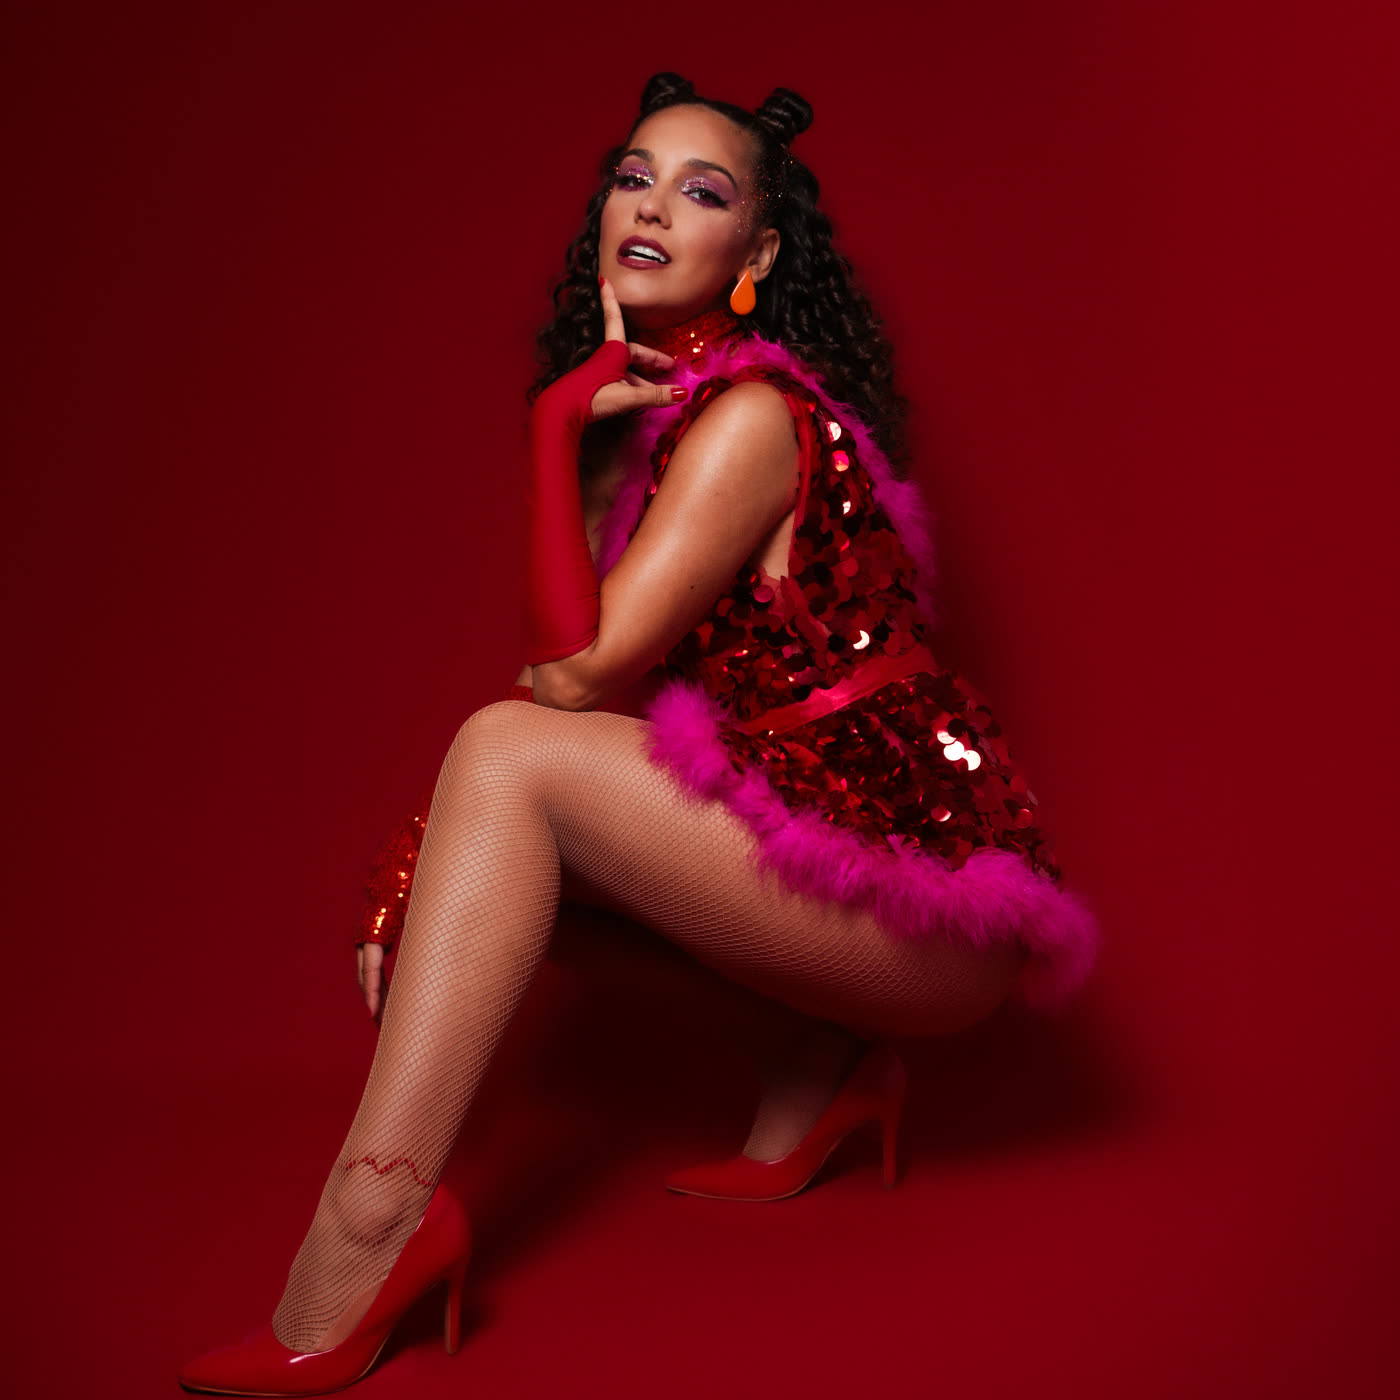
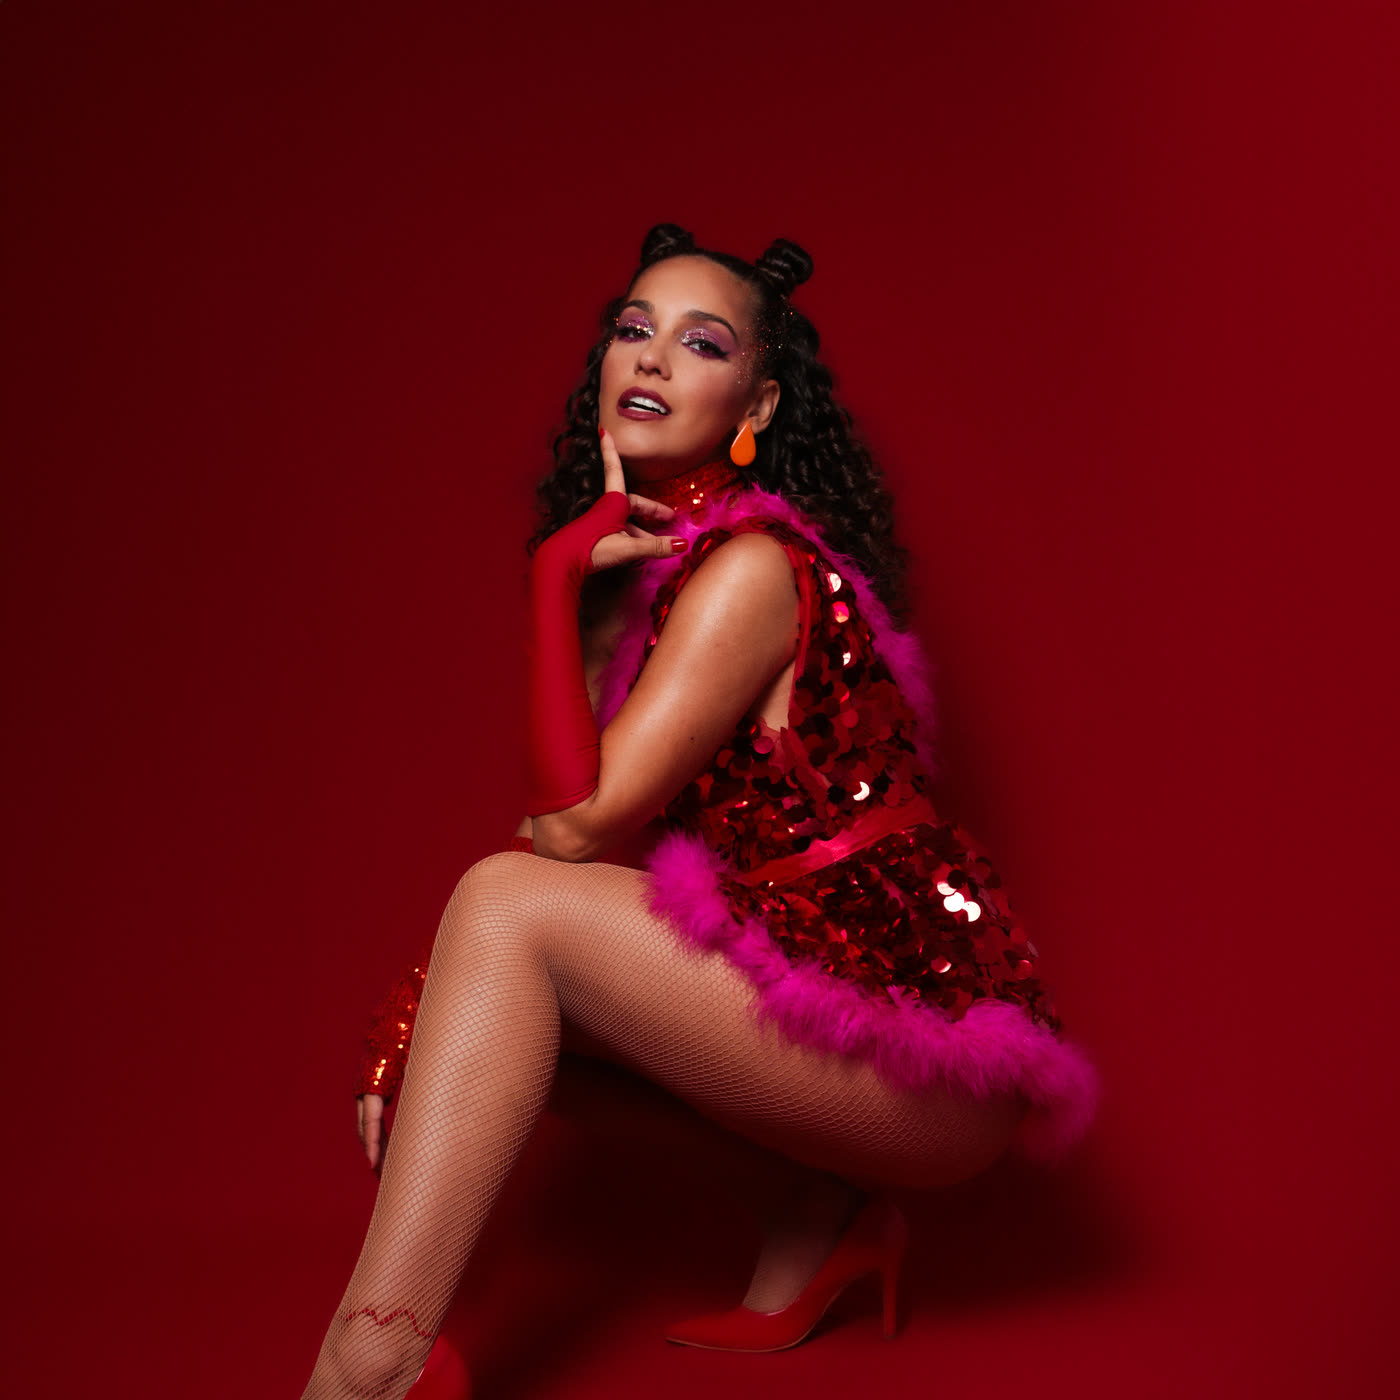
A cabeca dela inteira no hero do Ato I

Changed region(s): [[0.1229, 0.0307, 0.8293, 1.0]]

diff --git a/em-cena.html b/em-cena.html
@@ -21,15 +21,15 @@
 <link rel="preconnect" href="https://fonts.gstatic.com" crossorigin>
 <link rel="stylesheet" href="https://fonts.googleapis.com/css2?family=Archivo:wght@300..600&family=Fraunces:opsz,wght@9..144,300..800&family=Young+Serif&display=swap">
 
-<link rel="stylesheet" href="assets/css/base.css?v=202609282022">
-<link rel="stylesheet" href="assets/css/header.css?v=202609282022">
-<link rel="stylesheet" href="assets/css/rodape.css?v=202609282022">
-<link rel="stylesheet" href="assets/css/ato.css?v=202609282022">
-<link rel="stylesheet" href="assets/css/em-cena.css?v=202609282022">
-<link rel="stylesheet" href="assets/css/vitrine.css?v=202609282022">
-<link rel="stylesheet" href="assets/css/galeria.css?v=202609282022">
-<link rel="stylesheet" href="assets/css/publicidade.css?v=202609282022">
-<link rel="stylesheet" href="assets/css/player.css?v=202609282022">
+<link rel="stylesheet" href="assets/css/base.css?v=202609282030">
+<link rel="stylesheet" href="assets/css/header.css?v=202609282030">
+<link rel="stylesheet" href="assets/css/rodape.css?v=202609282030">
+<link rel="stylesheet" href="assets/css/ato.css?v=202609282030">
+<link rel="stylesheet" href="assets/css/em-cena.css?v=202609282030">
+<link rel="stylesheet" href="assets/css/vitrine.css?v=202609282030">
+<link rel="stylesheet" href="assets/css/galeria.css?v=202609282030">
+<link rel="stylesheet" href="assets/css/publicidade.css?v=202609282030">
+<link rel="stylesheet" href="assets/css/player.css?v=202609282030">
 
 <script>document.documentElement.classList.add('js');</script>
 </head>
@@ -105,7 +105,7 @@
   <section class="abertura" style="--foto-borda: 44%; --foto-pos: 52% 38%; --foto-fade: 24%; --foto-brilho: 1">
 
     <figure class="abertura__figura" aria-hidden="true">
-      <img class="abertura__foto" src="assets/img/abertura-em-cena.jpg?v=202609282022" alt="" width="1600" height="1172" decoding="async">
+      <img class="abertura__foto" src="assets/img/abertura-em-cena.jpg?v=202609282030" alt="" width="1600" height="1172" decoding="async">
       <span class="abertura__veu"></span>
     </figure>
 
@@ -769,12 +769,12 @@
   </div>
 </div>
 
-<script src="assets/js/pronto.js?v=202609282022" defer></script>
-<script src="assets/js/nav.js?v=202609282022" defer></script>
-<script src="assets/js/reveal.js?v=202609282022" defer></script>
-<script src="assets/js/vitrine.js?v=202609282022" defer></script>
-<script src="assets/js/galeria.js?v=202609282022" defer></script>
-<script src="assets/js/player.js?v=202609282022" defer></script>
+<script src="assets/js/pronto.js?v=202609282030" defer></script>
+<script src="assets/js/nav.js?v=202609282030" defer></script>
+<script src="assets/js/reveal.js?v=202609282030" defer></script>
+<script src="assets/js/vitrine.js?v=202609282030" defer></script>
+<script src="assets/js/galeria.js?v=202609282030" defer></script>
+<script src="assets/js/player.js?v=202609282030" defer></script>
 
 </body>
 </html>

diff --git a/musica.html b/musica.html
@@ -22,12 +22,12 @@
 <link rel="preconnect" href="https://i.ytimg.com">
 <link rel="stylesheet" href="https://fonts.googleapis.com/css2?family=Archivo:wght@300..600&family=Fraunces:opsz,wght@9..144,300..800&family=Young+Serif&display=swap">
 
-<link rel="stylesheet" href="assets/css/base.css?v=202609282022">
-<link rel="stylesheet" href="assets/css/header.css?v=202609282022">
-<link rel="stylesheet" href="assets/css/rodape.css?v=202609282022">
-<link rel="stylesheet" href="assets/css/ato.css?v=202609282022">
-<link rel="stylesheet" href="assets/css/musica.css?v=202609282022">
-<link rel="stylesheet" href="assets/css/player.css?v=202609282022">
+<link rel="stylesheet" href="assets/css/base.css?v=202609282030">
+<link rel="stylesheet" href="assets/css/header.css?v=202609282030">
+<link rel="stylesheet" href="assets/css/rodape.css?v=202609282030">
+<link rel="stylesheet" href="assets/css/ato.css?v=202609282030">
+<link rel="stylesheet" href="assets/css/musica.css?v=202609282030">
+<link rel="stylesheet" href="assets/css/player.css?v=202609282030">
 
 <script>document.documentElement.classList.add('js');</script>
 </head>
@@ -100,10 +100,10 @@
   <!-- ============================================================
        ABERTURA DO ATO
        ============================================================ -->
-  <section class="abertura" style="--foto-borda: 42%; --foto-pos: 50% 34%; --foto-fade: 26%; --foto-brilho: .98">
+  <section class="abertura" style="--foto-borda: 42%; --foto-pos: 50% 14%; --foto-fade: 26%; --foto-brilho: .98">
 
     <figure class="abertura__figura" aria-hidden="true">
-      <img class="abertura__foto" src="assets/img/abertura-musica.jpg" alt="" width="1400" height="1400" decoding="async">
+      <img class="abertura__foto" src="assets/img/abertura-musica.jpg?v=202609282030" alt="" width="1400" height="1400" decoding="async">
       <span class="abertura__veu"></span>
     </figure>
 
@@ -265,10 +265,10 @@
   <div class="player__quadro"></div>
 </div>
 
-<script src="assets/js/pronto.js?v=202609282022" defer></script>
-<script src="assets/js/nav.js?v=202609282022" defer></script>
-<script src="assets/js/reveal.js?v=202609282022" defer></script>
-<script src="assets/js/player.js?v=202609282022" defer></script>
+<script src="assets/js/pronto.js?v=202609282030" defer></script>
+<script src="assets/js/nav.js?v=202609282030" defer></script>
+<script src="assets/js/reveal.js?v=202609282030" defer></script>
+<script src="assets/js/player.js?v=202609282030" defer></script>
 
 </body>
 </html>

diff --git a/index.html b/index.html
@@ -22,11 +22,11 @@
 <link rel="preload" as="image" href="assets/img/bruna-hero.jpg" fetchpriority="high">
 <link rel="stylesheet" href="https://fonts.googleapis.com/css2?family=Archivo:wght@300..600&family=Fraunces:opsz,wght@9..144,300..800&family=Young+Serif&display=swap">
 
-<link rel="stylesheet" href="assets/css/base.css?v=202609282022">
-<link rel="stylesheet" href="assets/css/header.css?v=202609282022">
-<link rel="stylesheet" href="assets/css/rodape.css?v=202609282022">
-<link rel="stylesheet" href="assets/css/hero.css?v=202609282022">
-<link rel="stylesheet" href="assets/css/atos.css?v=202609282022">
+<link rel="stylesheet" href="assets/css/base.css?v=202609282030">
+<link rel="stylesheet" href="assets/css/header.css?v=202609282030">
+<link rel="stylesheet" href="assets/css/rodape.css?v=202609282030">
+<link rel="stylesheet" href="assets/css/hero.css?v=202609282030">
+<link rel="stylesheet" href="assets/css/atos.css?v=202609282030">
 
 <script>document.documentElement.classList.add('js');</script>
 </head>
@@ -185,7 +185,7 @@
       <li class="ato-panel" data-reveal style="--i:2">
         <a class="ato-panel__link" href="ao-vivo.html">
           <span class="ato-panel__figure">
-            <img src="assets/img/ato-ao-vivo.jpg?v=202609282022" alt="" width="900" height="1260" decoding="async">
+            <img src="assets/img/ato-ao-vivo.jpg?v=202609282030" alt="" width="900" height="1260" decoding="async">
           </span>
           <span class="ato-panel__veil" aria-hidden="true"></span>
           <span class="ato-panel__caption">
@@ -235,10 +235,10 @@
 
 </footer>
 
-<script src="assets/js/pronto.js?v=202609282022" defer></script>
-<script src="assets/js/hero.js?v=202609282022" defer></script>
-<script src="assets/js/nav.js?v=202609282022" defer></script>
-<script src="assets/js/reveal.js?v=202609282022" defer></script>
+<script src="assets/js/pronto.js?v=202609282030" defer></script>
+<script src="assets/js/hero.js?v=202609282030" defer></script>
+<script src="assets/js/nav.js?v=202609282030" defer></script>
+<script src="assets/js/reveal.js?v=202609282030" defer></script>
 
 </body>
 </html>

diff --git a/ao-vivo.html b/ao-vivo.html
@@ -21,11 +21,11 @@
 <link rel="preconnect" href="https://fonts.gstatic.com" crossorigin>
 <link rel="stylesheet" href="https://fonts.googleapis.com/css2?family=Archivo:wght@300..600&family=Fraunces:opsz,wght@9..144,300..800&family=Young+Serif&display=swap">
 
-<link rel="stylesheet" href="assets/css/base.css?v=202609282022">
-<link rel="stylesheet" href="assets/css/header.css?v=202609282022">
-<link rel="stylesheet" href="assets/css/rodape.css?v=202609282022">
-<link rel="stylesheet" href="assets/css/ato.css?v=202609282022">
-<link rel="stylesheet" href="assets/css/showreel.css?v=202609282022">
+<link rel="stylesheet" href="assets/css/base.css?v=202609282030">
+<link rel="stylesheet" href="assets/css/header.css?v=202609282030">
+<link rel="stylesheet" href="assets/css/rodape.css?v=202609282030">
+<link rel="stylesheet" href="assets/css/ato.css?v=202609282030">
+<link rel="stylesheet" href="assets/css/showreel.css?v=202609282030">
 
 <script>document.documentElement.classList.add('js');</script>
 </head>
@@ -175,10 +175,10 @@
 
 </footer>
 
-<script src="assets/js/pronto.js?v=202609282022" defer></script>
-<script src="assets/js/nav.js?v=202609282022" defer></script>
-<script src="assets/js/reveal.js?v=202609282022" defer></script>
-<script src="assets/js/showreel.js?v=202609282022" defer></script>
+<script src="assets/js/pronto.js?v=202609282030" defer></script>
+<script src="assets/js/nav.js?v=202609282030" defer></script>
+<script src="assets/js/reveal.js?v=202609282030" defer></script>
+<script src="assets/js/showreel.js?v=202609282030" defer></script>
 
 </body>
 </html>

diff --git a/trajetoria.html b/trajetoria.html
@@ -21,11 +21,11 @@
 <link rel="preconnect" href="https://fonts.gstatic.com" crossorigin>
 <link rel="stylesheet" href="https://fonts.googleapis.com/css2?family=Archivo:wght@300..600&family=Fraunces:opsz,wght@9..144,300..800&family=Young+Serif&display=swap">
 
-<link rel="stylesheet" href="assets/css/base.css?v=202609282022">
-<link rel="stylesheet" href="assets/css/header.css?v=202609282022">
-<link rel="stylesheet" href="assets/css/rodape.css?v=202609282022">
-<link rel="stylesheet" href="assets/css/ato.css?v=202609282022">
-<link rel="stylesheet" href="assets/css/trajetoria.css?v=202609282022">
+<link rel="stylesheet" href="assets/css/base.css?v=202609282030">
+<link rel="stylesheet" href="assets/css/header.css?v=202609282030">
+<link rel="stylesheet" href="assets/css/rodape.css?v=202609282030">
+<link rel="stylesheet" href="assets/css/ato.css?v=202609282030">
+<link rel="stylesheet" href="assets/css/trajetoria.css?v=202609282030">
 
 <script>document.documentElement.classList.add('js');</script>
 </head>
@@ -195,9 +195,9 @@
 
 </footer>
 
-<script src="assets/js/pronto.js?v=202609282022" defer></script>
-<script src="assets/js/nav.js?v=202609282022" defer></script>
-<script src="assets/js/parallax.js?v=202609282022" defer></script>
+<script src="assets/js/pronto.js?v=202609282030" defer></script>
+<script src="assets/js/nav.js?v=202609282030" defer></script>
+<script src="assets/js/parallax.js?v=202609282030" defer></script>
 
 </body>
 </html>

diff --git a/contato.html b/contato.html
@@ -21,10 +21,10 @@
 <link rel="preconnect" href="https://fonts.gstatic.com" crossorigin>
 <link rel="stylesheet" href="https://fonts.googleapis.com/css2?family=Archivo:wght@300..600&family=Fraunces:opsz,wght@9..144,300..800&family=Young+Serif&display=swap">
 
-<link rel="stylesheet" href="assets/css/base.css?v=202609282022">
-<link rel="stylesheet" href="assets/css/header.css?v=202609282022">
-<link rel="stylesheet" href="assets/css/rodape.css?v=202609282022">
-<link rel="stylesheet" href="assets/css/contato.css?v=202609282022">
+<link rel="stylesheet" href="assets/css/base.css?v=202609282030">
+<link rel="stylesheet" href="assets/css/header.css?v=202609282030">
+<link rel="stylesheet" href="assets/css/rodape.css?v=202609282030">
+<link rel="stylesheet" href="assets/css/contato.css?v=202609282030">
 
 <script>document.documentElement.classList.add('js');</script>
 </head>
@@ -156,9 +156,9 @@
 
 </footer>
 
-<script src="assets/js/pronto.js?v=202609282022" defer></script>
-<script src="assets/js/nav.js?v=202609282022" defer></script>
-<script src="assets/js/reveal.js?v=202609282022" defer></script>
+<script src="assets/js/pronto.js?v=202609282030" defer></script>
+<script src="assets/js/nav.js?v=202609282030" defer></script>
+<script src="assets/js/reveal.js?v=202609282030" defer></script>
 
 </body>
 </html>
